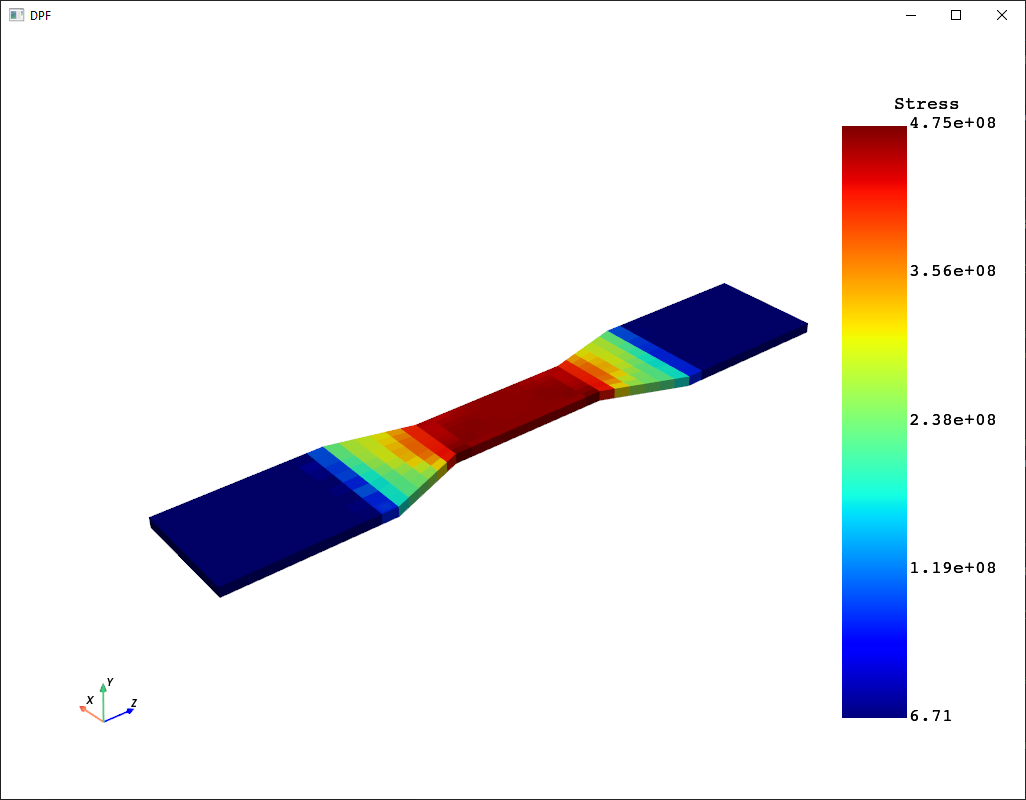
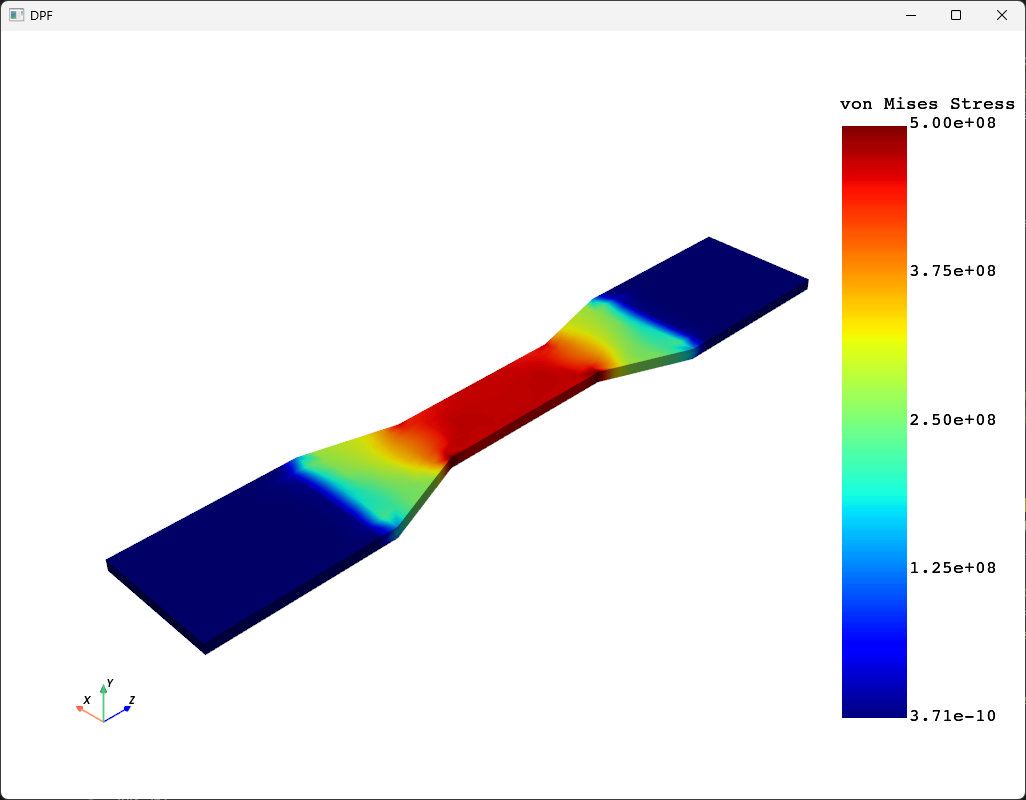
Modify example to calculate and plot von Mises stress. Plot nodal, rather than cell values.

diff --git a/examples/02-tbrom_examples/06-TBROM_FEA_static_structural_optimization.py b/examples/02-tbrom_examples/06-TBROM_FEA_static_structural_optimization.py
@@ -76,6 +76,37 @@ design_points = np.linspace(
     start=applied_force_min, stop=applied_force_max, num=int((applied_force_max - applied_force_min) / step + 1)
 )
 
+
+###############################################################################
+# Define auxiliary functions
+# ~~~~~~~~~~~~~~~~~~~~~~~~~~
+# Define the auxiliary function for calculating the von Mises / equivalent tensile stress from the ROM stress snapshot.
+
+def vonMises_stress(stress_tensor: np.ndarray, signed: bool = False):
+    """
+    Calculate the von Mises stress.
+
+    Parameters
+    ----------
+    stress_tensor : np.ndarray
+        Cauchy stress tensor array of shape ``(n,6)`` where each row contains 
+        the three enormal stress components, followed by three shear stress
+        components.
+    signed : bool, default = False
+        if true, calculate the signed von Mises stress.
+
+    Returns
+    -------
+    np.ndarray
+        von Mises equivalent stress vector of shape ``(n,)``.
+    """
+    s11,s22,s33,s12,s23,s13 = np.split(stress_tensor,stress_tensor.shape[1],axis=1)
+    vonMises = ((1/2)*((s11-s22)**2 + (s22-s33)**2 + (s33-s11)**2 + 6*(s12**2 + s23**2 + s13**2)))**0.5
+    if signed:
+        hydrostatic = (s11 + s22 + s33)/3
+        vonMises = np.sign(hydrostatic)*vonMises
+    return vonMises.flatten()
+
 ###############################################################################
 # Load the twin runtime and generate displacement and stress results for different forces applied.
 # ~~~~~~~~~~~~~~~~~~~~~~~~~~~~~~~~~~~~~~~~~~~~~~~~~~~~~~~~~~~~~~~~~~~~~~~~~~~~~~~~~~~~~~~~~~~~~~~~
@@ -160,13 +191,23 @@ target_mesh = whole_mesh.grid
 ###############################################################################
 # Project the deformation field ROM onto the targeted mesh, and visualize
 # ~~~~~~~~~~~~~~~~~~~~~~~~~~~~~~~~~~~~~~~~~~~~~~~~~~~~~~~~~~~~~~~~~~~~~~~
+# Projection is performed using nodal values since ROM is builf from nodal deformation values. The default plotting
+# method calculates the magnitude (norm) of the components for display.
+
 def_romname = twin_model.tbrom_names[0]  # 0 = Deformation ROM, 1 = Stress ROM
 # field_data = twin_model.get_tbrom_output_field(romname) # point cloud results
-def_field_data = twin_model.project_tbrom_on_mesh(def_romname, target_mesh, True)  # mesh based results
+def_field_data = twin_model.project_tbrom_on_mesh(
+    def_romname, target_mesh, True, nodal_values=True
+    )  # mesh based results
 def_plotter = pv.Plotter()
 def_plotter.set_background("white")
 def_plotter.add_axes()
 def_plotter.add_mesh(def_field_data, scalar_bar_args={"color": "black"})
+def_plotter.camera_position = [
+    (-0.04, 0.04, -0.04),
+    (0.0, 0, 0),
+    (0, 1, 0),
+]
 def_plotter.show()
 
 ###############################################################################
@@ -174,12 +215,33 @@ def_plotter.show()
 #   :width: 400pt
 #   :align: center
 
+###############################################################################
+# Project the stress field ROM onto the targeted mesh, and visualize
+# ~~~~~~~~~~~~~~~~~~~~~~~~~~~~~~~~~~~~~~~~~~~~~~~~~~~~~~~~~~~~~~~~~~
+# Projection is performed using nodal values since ROM is build from nodal-averaged stress values.
+# :func:`vonMises_stress`, defined earlier, is used to calculate the von Mises stress from the ROM stress tensor and
+# this value is plotted.
+
 stress_romname = twin_model.tbrom_names[1]  # 0 = Deformation ROM, 1 = Stress ROM
-stress_field_data = twin_model.project_tbrom_on_mesh(stress_romname, target_mesh, True)  # mesh based results
+stress_field_data = twin_model.project_tbrom_on_mesh(stress_romname, target_mesh, True, nodal_values=True)
+vonMises = vonMises_stress(stress_field_data.active_scalars)
+fname = "von Mises Stress"
+if stress_field_data.active_scalars.association == pv.FieldAssociation.CELL:
+    stress_field_data.cell_data[fname] = vonMises
+    stress_field_data.set_active_scalars(fname, preference='cell')
+else:
+    stress_field_data.point_data[fname] = vonMises
+    stress_field_data.set_active_scalars(fname, preference='point')
+
 stress_plotter = pv.Plotter()
 stress_plotter.set_background("white")
 stress_plotter.add_axes()
 stress_plotter.add_mesh(stress_field_data, scalar_bar_args={"color": "black"})
+stress_plotter.camera_position = [
+    (-0.04, 0.04, -0.04),
+    (0.0, 0, 0),
+    (0, 1, 0),
+]
 stress_plotter.show()
 
 ###############################################################################
